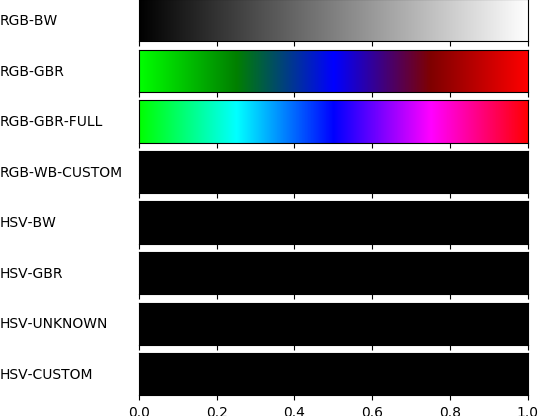
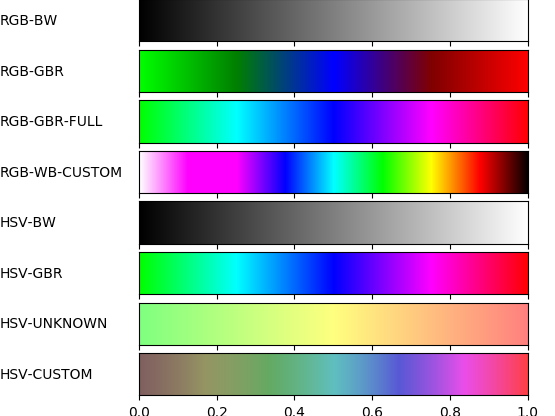
KCK lab3 gradients done

diff --git a/KCK/lab3/gradients.py b/KCK/lab3/gradients.py
@@ -46,75 +46,150 @@ def plot_color_gradients(gradients, names):
 
 
 def hsv2rgb(h, s, v):
-    # TODO
-    return (h, s, v)
+    c = v * s
+    x = c * (1 - abs((h / 60) % 2 - 1))
+    m = v - c
+
+    r = 0
+    g = 0
+    b = 0
+
+    if h >= 0 and h < 60:
+        r = c
+        g = x
+        b = 0
+    if h >= 60 and h < 120:
+        r = x
+        g = c
+        b = 0
+    if h >= 120 and h < 180:
+        r = 0
+        g = c
+        b = x
+    if h >= 180 and h < 240:
+        r = 0
+        g = x
+        b = c
+    if h >= 240 and h < 300:
+        r = x
+        g = 0
+        b = c
+    if h >= 300 and h < 360:
+        r = c
+        g = 0
+        b = x     
+
+    r, g, b = (r + m, g + m, b + m)
+
+    return (r, g, b)
 
 
 def gradient_rgb_bw(v):
     return (v, v, v)
 
+RED_GBR = np.concatenate((
+    np.linspace(0, 0, STEPS/2),
+    np.linspace(0, 1, STEPS/2)
+    ))
+GREEN_GBR = np.concatenate((
+    np.linspace(1, 0, STEPS/2),
+    np.linspace(0, 0, STEPS/2)
+    ))
+BLUE_GBR = np.concatenate((
+    np.linspace(0, 0, STEPS/4),
+    np.linspace(0, 1, STEPS/4),
+    np.linspace(1, 0, STEPS/4),
+    np.linspace(0, 0, STEPS/4)
+    ))
 
 def gradient_rgb_gbr(v):
     step = int(v * STEPS) - 1
 
-    green = np.concatenate((np.linspace(1, 0, STEPS/2), np.linspace(0, 0, STEPS/2)))
-    blue = np.concatenate((np.linspace(0, 0, STEPS/4), np.linspace(0, 1, STEPS/4), np.linspace(1, 0, STEPS/4), np.linspace(0, 0, STEPS/4)))
-    red = np.concatenate((np.linspace(0, 0, STEPS/2), np.linspace(0, 1, STEPS/2)))
+    return (RED_GBR[step], GREEN_GBR[step], BLUE_GBR[step])
 
-    return (red[step], green[step], blue[step])
-
+RED_GRB_FULL = np.concatenate((
+    np.linspace(0, 0, STEPS/2),
+    np.linspace(0, 1, STEPS/4),
+    np.linspace(1, 1, STEPS/4)
+))
+GREEN_GRB_FULL = np.concatenate((
+    np.linspace(1, 1, STEPS/4),
+    np.linspace(1, 0, STEPS/4),
+    np.linspace(0, 0, STEPS/2)
+))
+BLUE_GRB_FULL =np.concatenate((
+    np.linspace(0, 1, STEPS/4),
+    np.linspace(1, 1, STEPS/2),
+    np.linspace(1, 0, STEPS/4)
+))
 
 def gradient_rgb_gbr_full(v):
     step = int(v * STEPS) - 1
 
-    # red = np.linspace(0, 1, STEPS)
-    red = np.concatenate((
-        np.linspace(0, 0, STEPS/2),
-        np.linspace(0, 1, STEPS/4),
-        np.linspace(1, 1, STEPS/4)
-    ))
+    return (RED_GRB_FULL[step], GREEN_GRB_FULL[step], BLUE_GRB_FULL[step])
 
-    green = np.concatenate((
-        np.linspace(1, 1, STEPS/4),
-        np.linspace(1, 0, STEPS/4),
-        np.linspace(0, 0, STEPS/2)
-    ))
-    # green = np.linspace(1, 0, STEPS)
-    # blue = np.concatenate((np.linspace(0, 1, STEPS/2), np.linspace(1, 0, STEPS/2)))
-    blue = np.concatenate((
-        np.linspace(0, 1, STEPS/4),
-        np.linspace(1, 1, STEPS/2),
-        np.linspace(1, 0, STEPS/4)
-    ))
-
-    print(step, red[step], green[step], blue[step])
-
-    return (red[step], green[step], blue[step])
-
+RED_WB_CUSTOM = np.concatenate((
+    np.linspace(1, 1, STEPS/4),
+    np.linspace(1, 0, STEPS/8),
+    np.linspace(0, 0, STEPS/4),
+    np.linspace(0, 1, STEPS/8),
+    np.linspace(1, 1, STEPS/8),
+    np.linspace(1, 0, STEPS/8)
+))
+GREEN_WB_CUSTOM = np.concatenate((
+    np.linspace(1, 0, STEPS/8),
+    np.linspace(0, 0, STEPS/4),
+    np.linspace(0, 1, STEPS/8),
+    np.linspace(1, 1, STEPS/4), 
+    np.linspace(1, 0, STEPS/8), 
+    np.linspace(0, 0, STEPS/8),      
+))
+BLUE_WB_CUSTOM = np.concatenate((
+    np.linspace(1, 1, STEPS/2),
+    np.linspace(1, 0, STEPS/8),
+    np.linspace(0, 0, 3*STEPS/8),
+))
 
 def gradient_rgb_wb_custom(v):
-    # TODO
-    return (0, 0, 0)
+    step = int(v * STEPS) - 1
 
+    return (RED_WB_CUSTOM[step], GREEN_WB_CUSTOM[step], BLUE_WB_CUSTOM[step])
+
+V_BW = np.linspace(0, 1, STEPS)
 
 def gradient_hsv_bw(v):
-    # TODO
-    return hsv2rgb(0, 0, 0)
+    step = int(v * STEPS) - 1
 
+    return hsv2rgb(0, 0, V_BW[step])
+
+H_GBR = np.linspace(120, 360, STEPS)
 
 def gradient_hsv_gbr(v):
-    # TODO
-    return hsv2rgb(0, 0, 0)
+    step = int(v * STEPS) - 1
 
+    s = 1
+    v = 1
+
+    return hsv2rgb(H_GBR[step], s, v)
+
+H_UNKNOWN = np.linspace(120, 0, STEPS)
 
 def gradient_hsv_unknown(v):
-    # TODO
-    return hsv2rgb(0, 0, 0)
+    step = int(v * STEPS) - 1
 
+    s = 0.5
+    v = 1
+
+    return hsv2rgb(H_UNKNOWN[step], s, v)
+
+H_CUSTOM = np.linspace(0, 360, STEPS)
+S_CUSTOM = np.linspace(0.25, 0.75, STEPS)
+V_CUSTOM = np.linspace(0.5, 1, STEPS)
 
 def gradient_hsv_custom(v):
-    # TODO
-    return hsv2rgb(0, 0, 0)
+    step = int(v * STEPS) - 1
+
+    return hsv2rgb(H_CUSTOM[step], S_CUSTOM[step], V_CUSTOM[step])
 
 
 if __name__ == '__main__':
